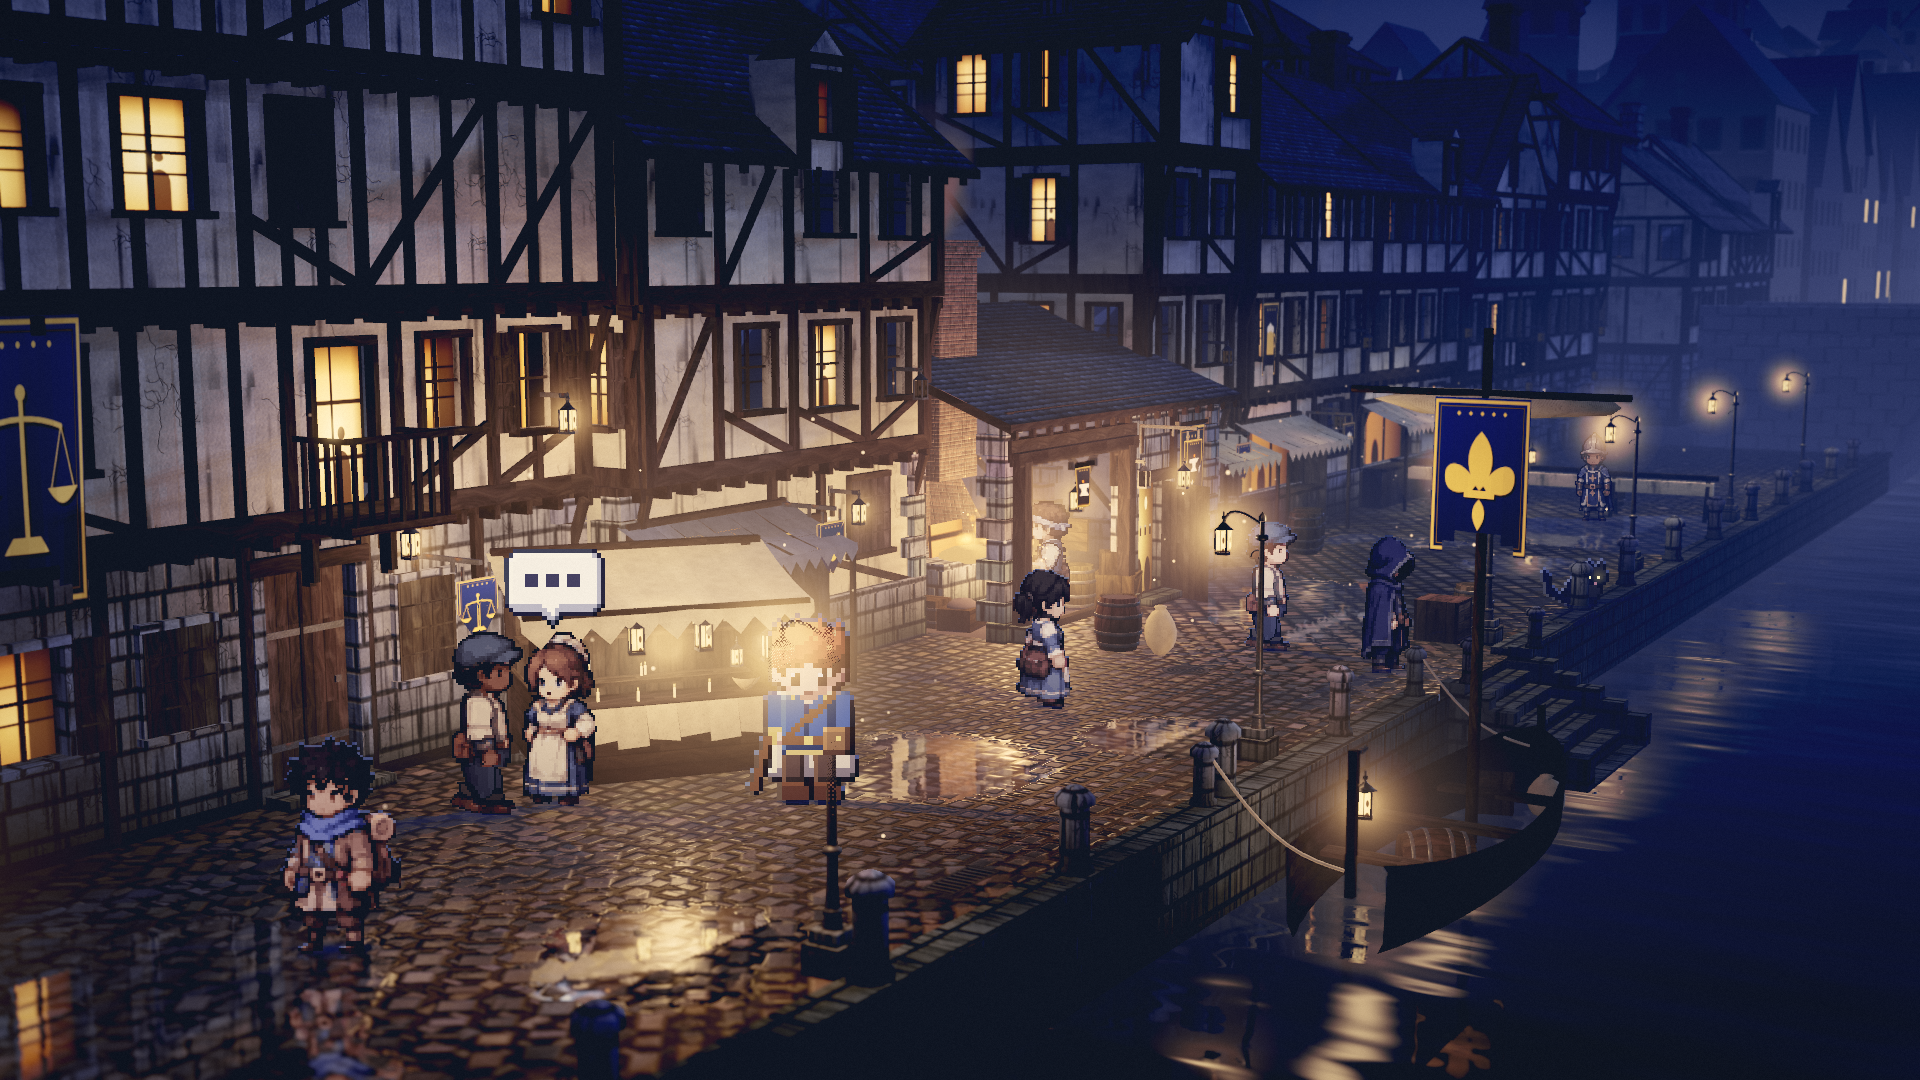
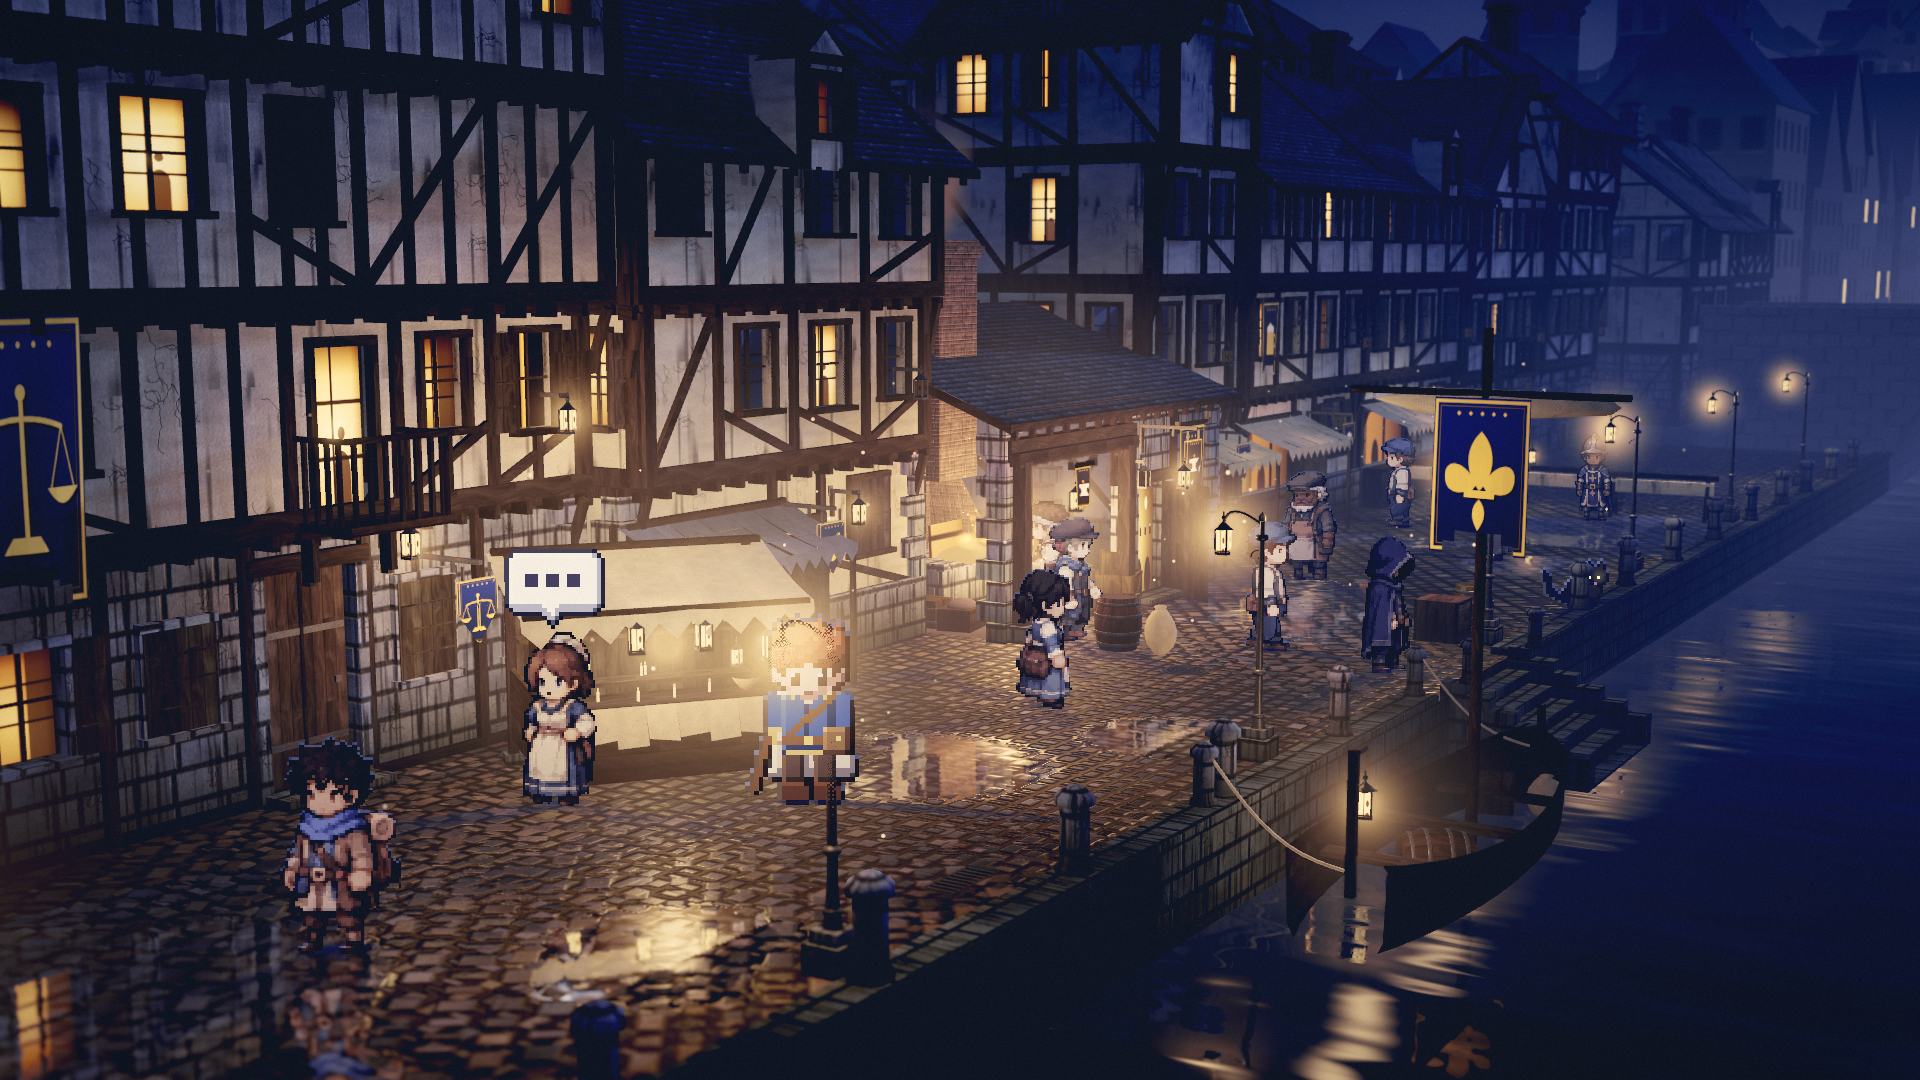
Pass C2: five ambient walkers by default, the five townsfolk in turn (operator decision C1); 0 px against the former ?crowd=5; references refreshed

Changed region(s): [[0.2188, 0.5806, 0.2812, 0.7639], [0.6562, 0.3972, 0.75, 0.6111], [0.5312, 0.4583, 0.5938, 0.6111]]

diff --git a/src/characters/ActorSystem.ts b/src/characters/ActorSystem.ts
@@ -54,8 +54,8 @@ export class ActorSystem {
   cast = new Map<string, CastMember>();
   /** the camera's character scale (set by the app every frame): a sprite drawn larger takes longer strides on the ground */
   charScale = 1;
-  /** ambient walkers when set (`?crowd=<n>`, journal Passe C1, a staging proposal awaiting the operator): n walkers, the five townsfolk in
-   *  turn (all five from n = 5); null = round(2 x density) walkers of randomly picked kinds, as approved */
+  /** ambient walkers when set (`?crowd=<n>`, journal Passe C1): n walkers, the five townsfolk in turn; null = round(5 x density), in turn too
+   *  (the operator's decision of 2026-10-19, « Cinq par défaut », journal Passe C2: at density 1 each approved townsperson walks once) */
   crowdCount: number | null = null;
 
   /** camera: shows a walking facing by its on-screen direction (null: the world rule for every facing) */
@@ -106,16 +106,16 @@ export class ActorSystem {
     for (const n of d.npcs) this.spawnNpc(n, rng);
     // ambient crowd: simplified sprites, count follows NPC density
     const crowd = ['crowd0', 'crowd1', 'crowd2', 'crowd3', 'crowd4'].filter((id) => this.atlas.specs.has(id));
-    const n = this.crowdCount ?? Math.round(2 * density);
+    const n = this.crowdCount ?? Math.round(5 * density);
     const taken: THREE.Vector3[] = [spawnPos, ...d.npcs.map((q) => new THREE.Vector3(...q.pos))];
     for (let i = 0; i < n; i++) {
       let p: THREE.Vector3 | null = null;
       for (let k = 0; k < 20 && !p; k++) { const c = this.randomFree(rng); if (c && taken.every((t) => Math.hypot(t.x - c.x, t.z - c.z) > 3.2)) p = c; }
       if (p) taken.push(p);
       if (!p) continue;
-      // the pick is drawn either way (every later draw stays where it was); `?crowd` takes the townsfolk in turn instead
-      const picked = rng.pick(crowd);
-      this.spawn(this.crowdCount !== null ? crowd[i % crowd.length] : picked, 'crowd', p, { behaviour: { kind: 'wander', seed: rng.int(1, 99999), wait: rng.range(0, 4), target: null }, tint: [rng.range(0.9, 1.1), rng.range(0.9, 1.1), rng.range(0.9, 1.1)], scale: rng.range(0.95, 1.04) });
+      // the townsfolk in turn; the old random pick is still drawn, so every later draw of the district RNG keeps its place
+      rng.pick(crowd);
+      this.spawn(crowd[i % crowd.length], 'crowd', p, { behaviour: { kind: 'wander', seed: rng.int(1, 99999), wait: rng.range(0, 4), target: null }, tint: [rng.range(0.9, 1.1), rng.range(0.9, 1.1), rng.range(0.9, 1.1)], scale: rng.range(0.95, 1.04) });
     }
     if (this.atlas.specs.has('porter') && density > 0.3) this.spawn('porter', 'porter', this.randomFree(rng) ?? new THREE.Vector3(9, 0, 2.5), { behaviour: { kind: 'wander', seed: 7, wait: 1, target: null }, anim: 'carry' });
     // authored NPCs last: they draw nothing from the RNG and are not in `taken`, so every seeded character keeps its place

diff --git a/src/app/App.ts b/src/app/App.ts
@@ -182,7 +182,7 @@ export class App {
     this.sprites = new SpriteRenderer(this.atlas, 40);
     this.actors = new ActorSystem(this.atlas, this.rig.camera);
     if (cast) this.actors.cast = cast.cast;
-    // ?crowd=<n>: n ambient walkers, the five townsfolk in turn (a staging proposal awaiting the operator, journal Passe C1)
+    // ?crowd=<n>: n ambient walkers, the five townsfolk in turn (journal Passe C1); absent: round(5 x density), the default (Passe C2)
     const crowd = Number(this.opts.params.get('crowd'));
     if (this.opts.params.has('crowd') && Number.isInteger(crowd) && crowd >= 0 && crowd <= 12) this.actors.crowdCount = crowd;
     if (baked) this.actors.authored = baked.spawns;

diff --git a/JOURNAL.md b/JOURNAL.md
@@ -382,6 +382,45 @@ Rien à faire pour H2, H5, A1-A4, T1, T8 et M2. T2 et T7 attendent le gel du dis
 ### Pensée
 - Un défaut d'outillage qui échoue en silence (un port pris, une image d'OS qui change de version sous le même nom) se règle en le rendant explicite : une erreur nette, une version épinglée.
 
+## Passe C2 — Foule : cinq promeneurs par défaut, les cinq citadins à tour de rôle (décision C1) (2026-10-19)
+
+### Demande
+- Décision de l'opérateur (Passe D1), mot pour mot : C1 « Cinq par défaut ».
+- Branche `crowd-five-c2` depuis `main` (`a6c1f1e`).
+
+### Fait — [OK]
+- `ActorSystem.populate` : sans `?crowd`, **round(5 × densité)** promeneurs, les cinq citadins à tour de rôle. À la densité 1, chaque
+  citadin approuvé marche une fois ; avant, round(2 × densité) promeneurs de types tirés au sort.
+- **Mon choix** : garder la proportion à la densité (le curseur du panneau) plutôt qu'un 5 fixe. À la densité 1, c'est exactement
+  l'ancien `?crowd=5`.
+- L'ancien tirage du type reste fait : chaque tirage suivant de la graine du district garde sa place.
+- `?crowd=<n>` fixe toujours le nombre, à tour de rôle aussi.
+- Mis à jour : `AGENTS.md` (paramètre `crowd`), le commentaire d'`App`.
+
+### Preuves
+- **Captures déterministes** (graine 1842, `clean=1&freeze=7.3&vis=0`, 300 pas : les promeneurs ont marché, 1920 × 1080, Radeon 780M) :
+  - la branche, par défaut, contre `main` figé (`ba3f5aa`, servi sur :5187) avec `?crowd=5`, en A / B / C / D : **0 px**, PNG identiques
+    à l'octet ;
+  - témoin de répétition (deux chargements) : 0 px ;
+  - contrôle (l'ancien défaut) : 0,7 % (A) à 4,8 % (B) des pixels changent.
+- **`tests/crowd.test.mjs`** réécrit (3 tests) :
+  - le défaut : cinq types dans l'ordre aux graines 1842, 7719 et 30417 ; densités 2, 0,2 et 0 ;
+  - `?crowd=<n>` ;
+  - le défaut = l'ancien `?crowd=5` (positions, types, porteur), et moins de promeneurs gardent les premiers en place ;
+  - **un oracle mesuré sur le code d'avant** : les places de l'ancien `?crowd=5` à la graine 1842 et celle du porteur, au millionième.
+- **Cinq fautes injectées une à une, toutes attrapées** :
+  - défaut à 2 × densité ;
+  - types tirés au sort par défaut ;
+  - nombre indépendant de la densité ;
+  - `?crowd` ignoré ;
+  - l'ancien tirage du type retiré (seul l'oracle l'attrape).
+- typecheck, `npm test` 82 / 82, build, `art:validate`.
+- Références `screenshots/calibration/cam{A,B,C,D}-*.png` refaites avec la foule par défaut (requêtes de `tools/screenshots.mjs`, capture déterministe, 120 pas, témoin de répétition 0 px) ; contre les anciennes, 0,8 à 4,1 % des pixels changent, la foule et le porteur, dont la place suit les tirages des promeneurs de plus.
+
+### Pensée
+- Un changement de défaut qui reprend une variante déjà préparée se prouve contre cette variante sur la base figée (0 px). Un oracle
+  mesuré sur l'ancien code garde ce qui ne se voit pas (un tirage conservé pour la suite de la graine).
+
 ## À reprendre (par priorité)
 
 > Élaguée le 18/10 (Passe M3) : seul le travail ouvert reste, regroupé par thème ; ce qui est fait vit dans sa passe. Les anciens repères
@@ -401,7 +440,7 @@ Rien à faire pour H2, H5, A1-A4, T1, T8 et M2. T2 et T7 attendent le gel du dis
   - La marchande reste à son étal sans marcher : son point est dans le collisionneur de l'étal. L'opérateur a choisi « La déplacer »,
     avec la note « Mais la marchande n'est pas cense rester a son stand ? » ; **la question est reposée** (Passe D1).
   - Les deux gardes diffèrent déjà (variante 1 pour le second, approuvée le 18/10). Restent les lances.
-  - Les cinq citadins : « Cinq par défaut » (Passe D1), **à appliquer** (`?crowd=<n>`, Passe C1).
+  - Les cinq citadins : « Cinq par défaut » (Passe D1), appliqué (Passe C2).
 - **Mouvement** (Passe S2 : cadence réglée sur la vitesse vue à l'écran, pieds plantés pour la foule et les gardes ; Passe V3 : docker
   régularisé, glissement ≈ 0 en B / C / D) : restes des critiques du docker, communs à ses deux cycles : pas d'attaque du talon, botte de
   passage posée sur celle d'appui (image 4), poussée faible ; cycle 3 + 3 sans double appui (hérité du garde) ; en A, l'horloge touche son

diff --git a/AGENTS.md b/AGENTS.md
@@ -207,8 +207,8 @@ occluders open: review / visibility proof) · `occdebug=1` (proxy boxes, reveal 
 occludable: stress test of the behind-occluder bake) · DEV server only: `labsprite=<id>|-&labpos=x,z[;x,z]` (show an Art Lab export
 on the porter actor, standing still, in the real scene; `-` = generated frames for the "before" image; compiled out of production,
 see `art-lab/README.md`) · DEV server only, EXPERIMENTAL: `baked=<id>&bakedpos=x,z` (a baked export in the MAIN atlas and renderer, per
-`art-lab/characters/runtime-integration-contract.md` v3; never in production builds; flags in `src/lab/bakedLoader.ts`) · `crowd=<n>` (n ambient walkers, the five townsfolk in turn; a staging proposal awaiting the operator, journal Passe C1; absent =
-round(2 x density) randomly picked, as approved) · `cast=generated`
+`art-lab/characters/runtime-integration-contract.md` v3; never in production builds; flags in `src/lab/bakedLoader.ts`) · `crowd=<n>` (n ambient walkers, the five townsfolk in turn, journal Passe C1; absent =
+round(5 x density) in turn, each townsperson once at density 1: the operator's decision of 2026-10-19, « Cinq par défaut », journal Passe C2) · `cast=generated`
 (skip the production cast of baked characters, `src/characters/BakedCast.ts`: the old generated porter / merchant) · DEV server only:
 `cast=candidate` (also load the cast entries whose manifests still wait for the operator's approval: review before production) · DEV server only:
 `variants=candidate` (apply the NPC variants file `art-lab/characters/variants/variants.json` while it waits for the operator's approval; production
